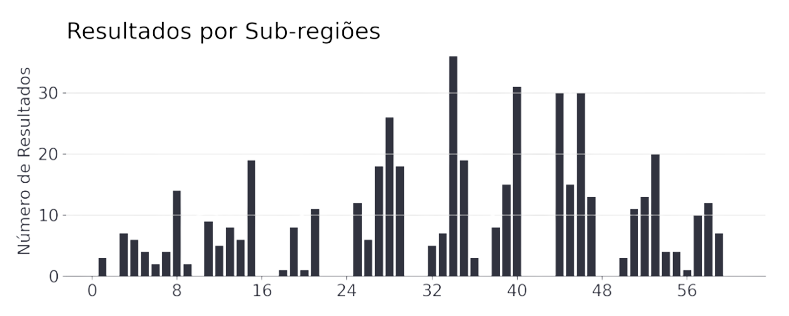
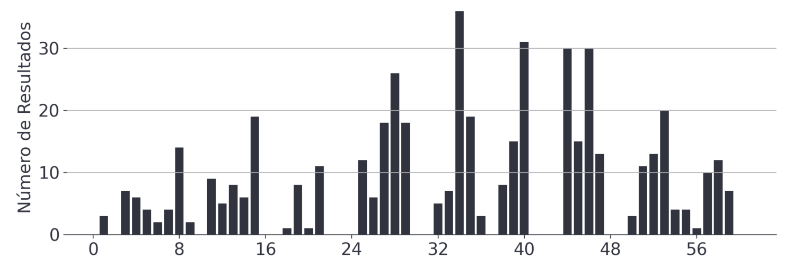
update about and config.toml

diff --git a/code/about.py b/code/about.py
@@ -11,14 +11,13 @@ def about():
     with col2:
         st.markdown("[![Title](https://img.icons8.com/ios-glyphs/30/null/github.png)](https://github.com/AbraaoAndrade/b2b_prospection)")
     with col3:
-        st.markdown("[![Title](https://img.icons8.com/ios-glyphs/30/null/linkedin-circled--v1.png)](linkedin.com/in/abraão-andrade-3632031b0)")
+        st.markdown("[![Title](https://img.icons8.com/ios-glyphs/30/null/linkedin-circled--v1.png)](https://linkedin.com/in/abraão-andrade-3632031b0)")
+    
     
     st.markdown("## Contextualização")
-
     st.markdown("""
     A prospecção comercial é o primeiro passo para a venda. Esse tipo de atividade é fundamental para \
-    construção de um bom volume de negócios, portanto, mapear a praça em que sua empresa está inserida \
-    é um passo fundamental para um bom planejamento estratégico de vendas.
+    construção de um bom volume de negócios, portanto, mapear a praça em que sua empresa está inserida é inerente a um bom planejamento estratégico de vendas.
     """)
 
     st.markdown("## Projeto")
@@ -28,16 +27,31 @@ def about():
     """)
     st.markdown("""
     Para isso foi utilizada a API Places, um serviço da Google que retorna informações sobre lugares usando \
-    solicitações HTTP. Essa API permite pesquisar estabelecimentos dentro de um raio a partir de uma coordenada \
-    de referência, restrito a um tipo, por exemplo: farmácia, bar, padaria…
+    solicitações HTTP. Essa API permite pesquisar estabelecimentos por tipo, como farmácia, bar, padaria, …, \
+    dentro de um raio a partir de uma coordenada de referência.
     """)
     st.markdown("""
-    Acontece que há um limite de 60 resultados por request, por isso, a ideia é fragmentar sua região de\
-    interesse em sub-regiões para otimizar o número de estabelecimentos gerado.
+    Acontece que há um limite de 60 resultados por requisição na API, por isso, a ideia é fragmentar sua \
+    região de interesse em sub-regiões para otimizar o número de estabelecimentos gerado. No exemplo abaixo, \
+    foi realizada uma prospecção de farmácias em Natal-RN. Para isso a cidade foi subdividida em circulos com \
+    raio de 900 metros, resultando em 59 subregiões.
     """)
     
     st.image("images/processo.png")
+
+    st.markdown("""
+    O gráfico de barras abaixo mostra o número de resultados retornados por subregião. O objetivo desse plot \
+    é mostrar o grau de eficiência da segmentação. O ideal é que as barrinhas estejam o mais próximo possível \
+    do número máximo de resultados, 60.
+    """)
+
     st.image("images/plot.png")
+
+    st.markdown("""
+    Com a lista de estabelecimentos gerada, o último passo é usar a mesma API para adicionar os detalhes \
+    importantes, como telefone e horário de funcionamento.
+    """)
+
     st.dataframe(pd.read_excel("data/report_pharmacy.xlsx"), height=200)
 
     get_api_key_url = "https://developers.google.com/maps/documentation/places/web-service/get-api-key"

diff --git a/code/app.py b/code/app.py
@@ -68,6 +68,7 @@ def app():
     else:
         st.session_state.sidebar_state = 'collapsed'
 
+    st.text(st.session_state.b2b_report_env.radius_km)
         
     # 3. resultados --------------------------------------------------------------------------------------------
         # previsão de gastos
